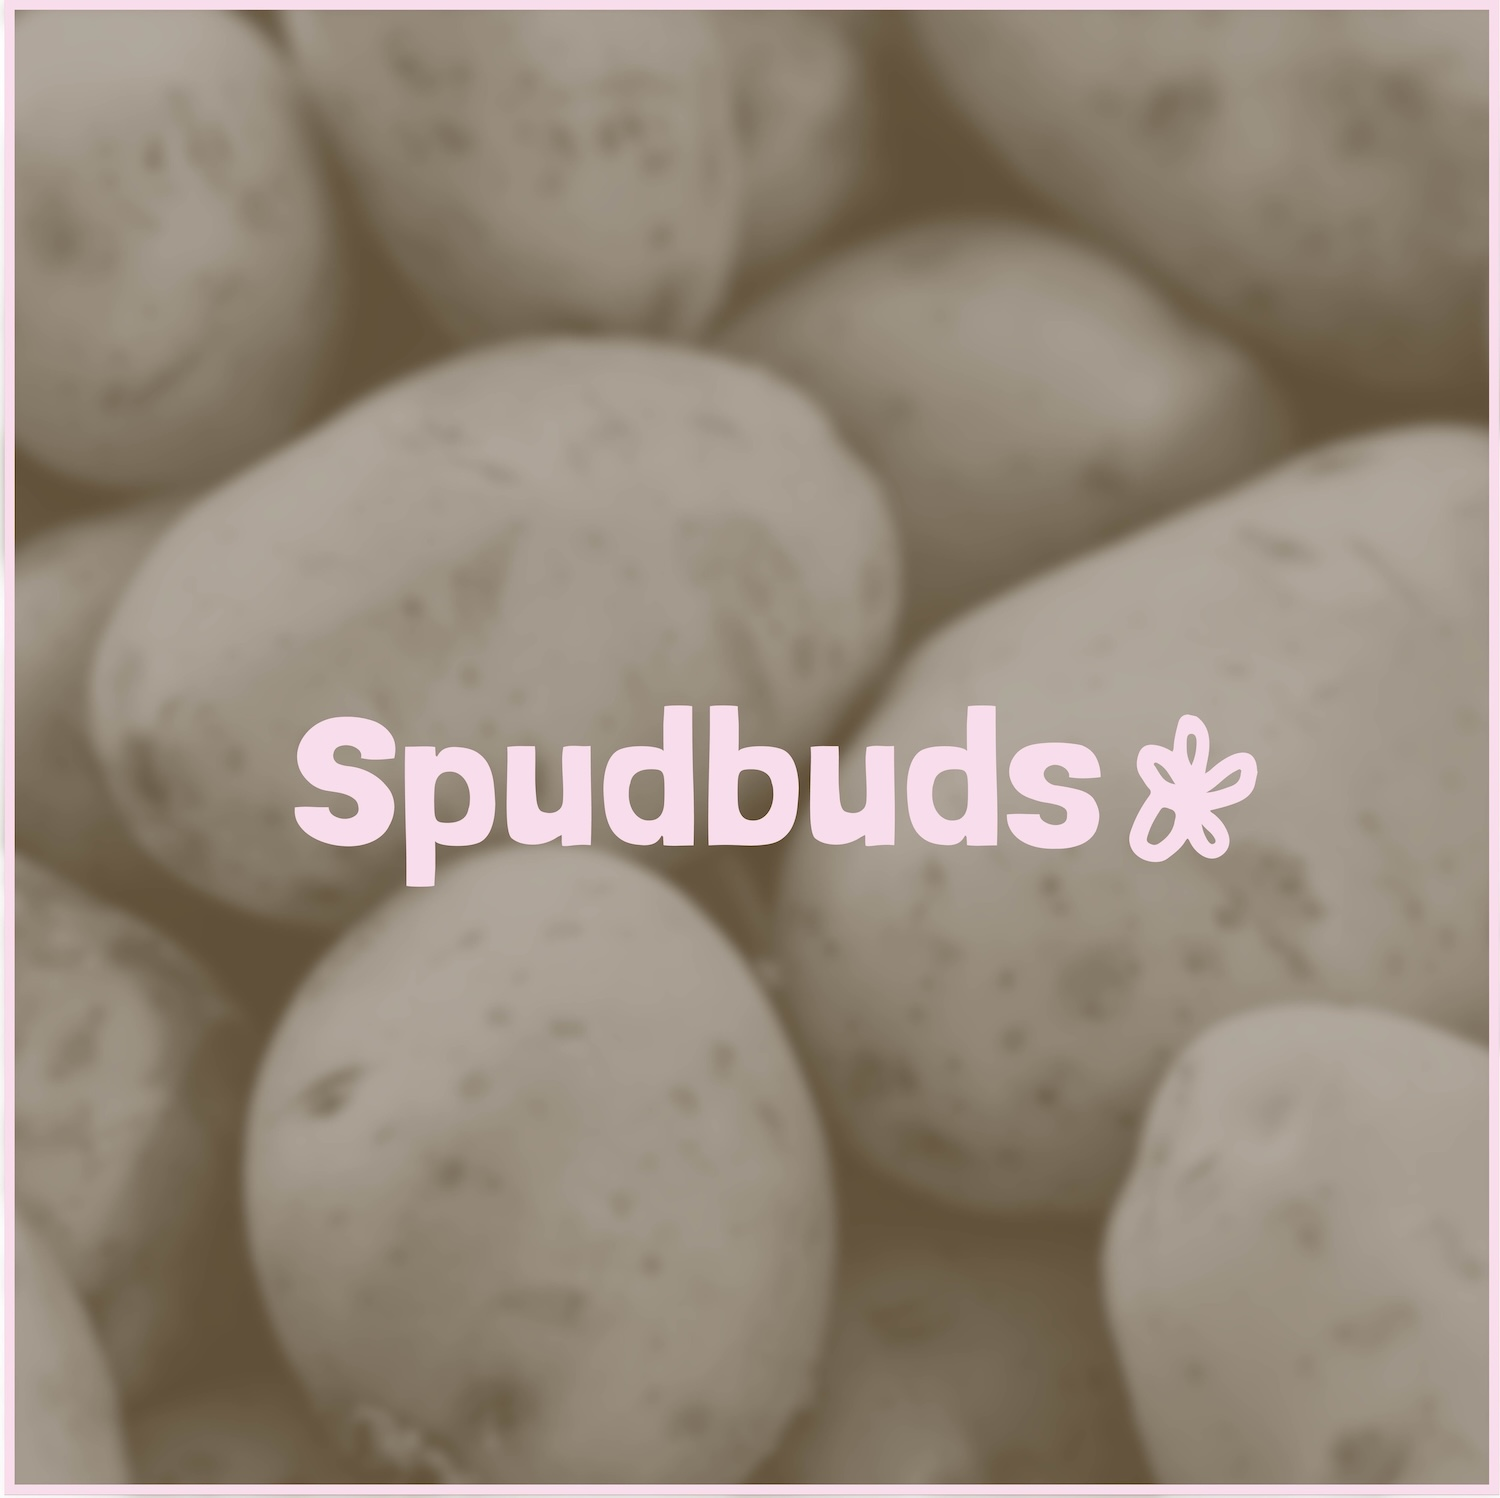
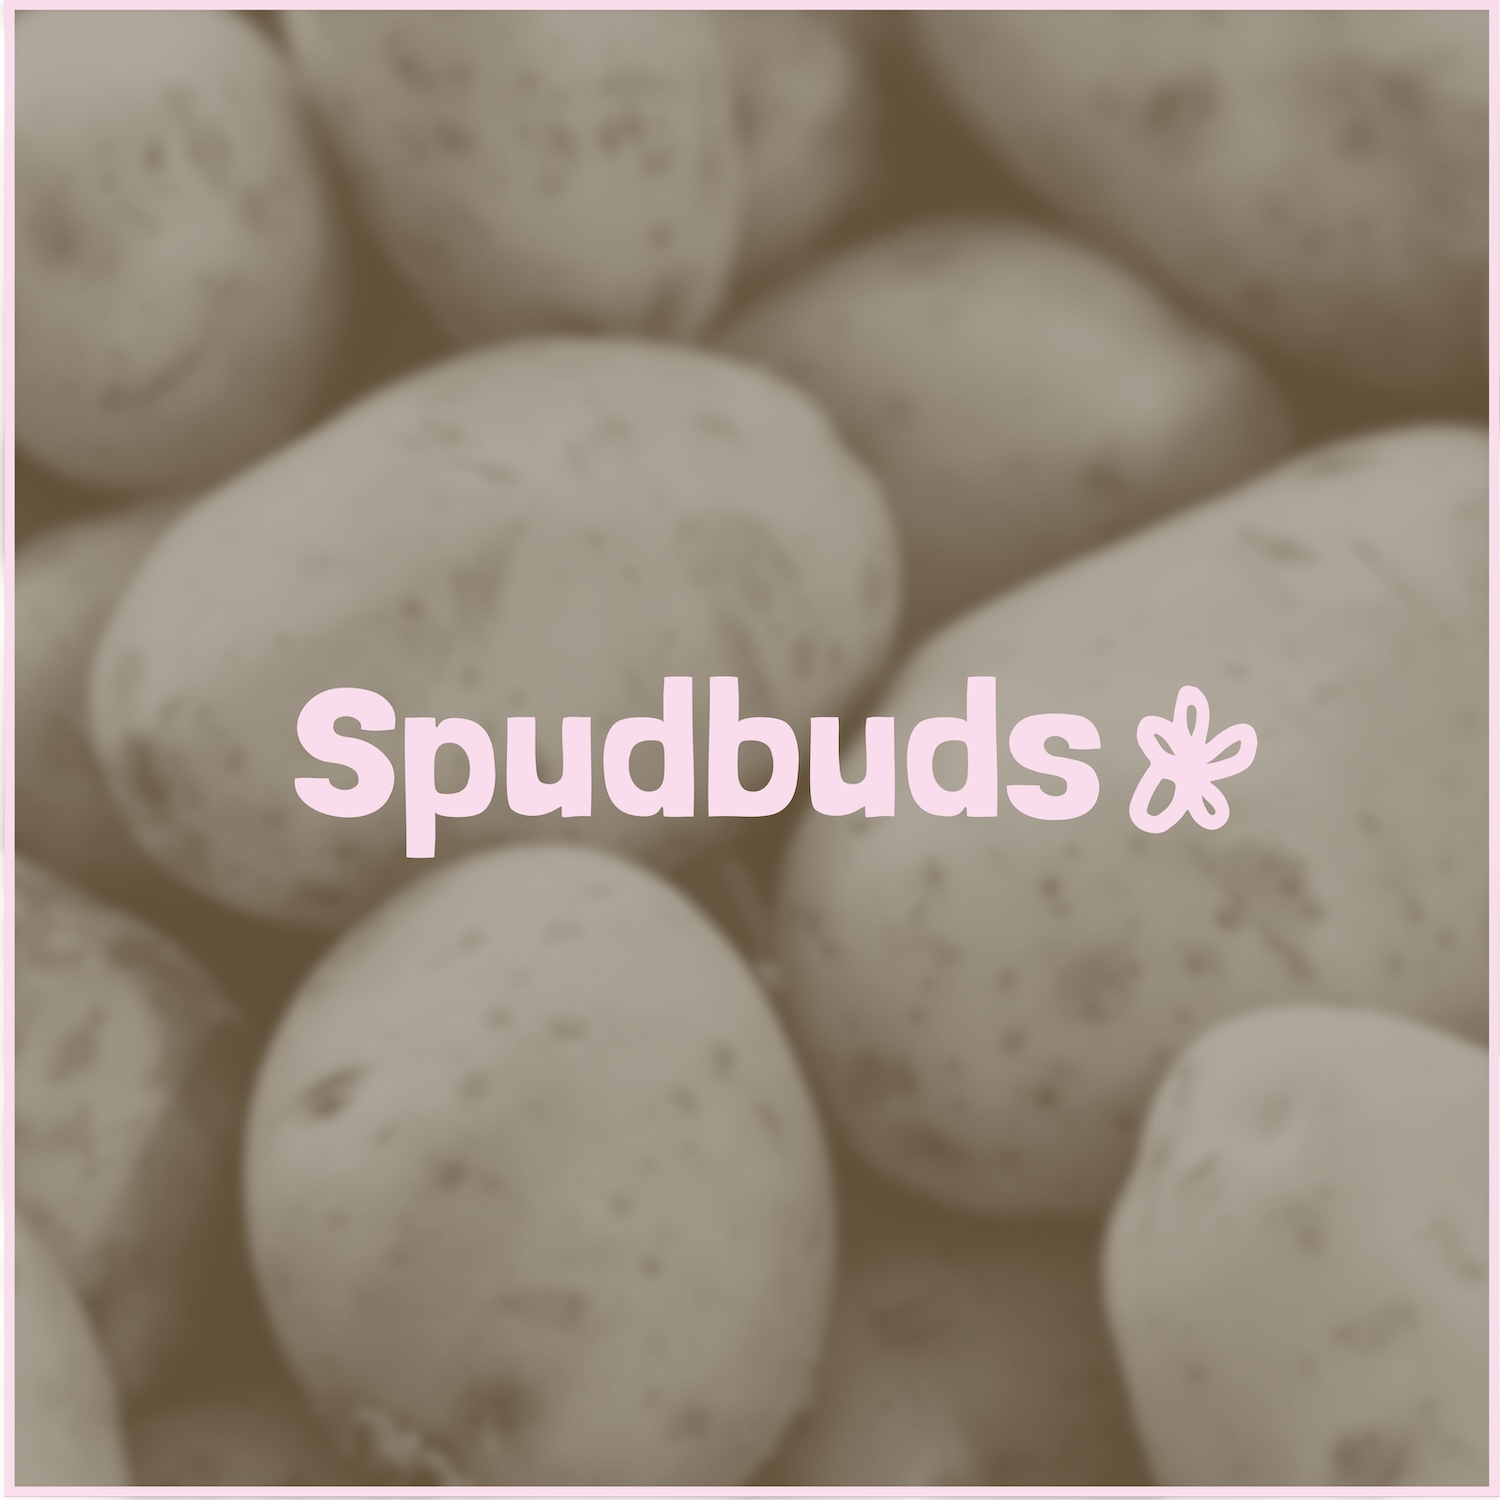
removed outlines, recoloured backgrounds

Changed region(s): [[0.184, 0.4299, 0.8587, 0.6142]]

diff --git a/more-of-my-work.html b/more-of-my-work.html
@@ -335,7 +335,7 @@
           <!-- Three logos -->
           <figure class="project-image">
             <img
-              src="assets/more-of-my-work/Copywriting/more-of-my-work-copywriting-ad-1.jpg"
+              src="assets/more-of-my-work/Copywriting/more-of-my-work-copywriting-ad-6.jpg"
               width="1160"
               height="1500"
               loading="lazy"
@@ -345,7 +345,7 @@
 
           <figure class="project-image">
             <img
-              src="assets/more-of-my-work/Copywriting/more-of-my-work-copywriting-ad-2.jpg"
+              src="assets/more-of-my-work/Copywriting/more-of-my-work-copywriting-ad-5.jpg"
               width="1160"
               height="1500"
               loading="lazy"
@@ -362,38 +362,6 @@
             />
           </figure>
         </div>
-
-        <div class="project-image-container">
-          <!-- Three logos -->
-          <figure class="project-image">
-            <img
-              src="assets/more-of-my-work/Copywriting/more-of-my-work-copywriting-ad-4.jpg"
-              width="1160"
-              height="1500"
-              loading="lazy"
-              alt="more of my work copywriting advertisement four"
-            />
-          </figure>
-
-          <figure class="project-image">
-            <img
-              src="assets/more-of-my-work/Copywriting/more-of-my-work-copywriting-ad-5.jpg"
-              width="1160"
-              height="1500"
-              loading="lazy"
-              alt="more of my work copywriting advertisement five"
-            />
-          </figure>
-          <figure class="project-image">
-            <img
-              src="assets/more-of-my-work/Copywriting/more-of-my-work-copywriting-ad-6.jpg"
-              width="1160"
-              height="1500"
-              loading="lazy"
-              alt="more of my work copywriting advertisement six"
-            />
-          </figure>
-        </div>
         <div class="project-text-below" style="width: 100%; margin-top: 1rem">
           <p class="project-description-one-column">
             I devised a hypothetical French Canadian beer with a campaign aimed
@@ -403,9 +371,9 @@
             can disagree with its flavour.
           </p>
           <p class="project-description-one-column">
-            I wanted them to be lighthearted an immedietly grab the attention of
-            beer patrons throughout all of Canada. It was also a great exercise
-            in simple layout design.
+            I wanted them to be lighthearted and immedietly grab the attention
+            of beer patrons throughout all of Canada. It was also a great
+            exercise in simple layout design.
           </p>
         </div>
         <div class="section-container border top"></div>
@@ -419,25 +387,6 @@
               height="985"
               loading="lazy"
               alt="more of my work layout design covers"
-            />
-          </figure>
-
-          <figure class="project-image">
-            <img
-              src="assets/more-of-my-work/layout-design/more-of-my-work-playback-spread-one.jpg"
-              width="1500"
-              height="985"
-              loading="lazy"
-              alt="more of my work layout design spread one"
-            />
-          </figure>
-          <figure class="project-image">
-            <img
-              src="assets/more-of-my-work/layout-design/more-of-my-work-playback-spread-two.jpg"
-              width="1500"
-              height="985"
-              loading="lazy"
-              alt="more of my work layout design spread two"
             />
           </figure>
           <figure class="project-image">
@@ -464,29 +413,11 @@
 
           <figure class="project-image">
             <img
-              src="assets/more-of-my-work/layout-design/more-of-my-work-playback-spread-five.jpg"
-              width="1500"
-              height="985"
-              loading="lazy"
-              alt="more of my work layout design spread five"
-            />
-          </figure>
-          <figure class="project-image">
-            <img
               src="assets/more-of-my-work/layout-design/more-of-my-work-playback-spread-six.jpg"
               width="1500"
               height="985"
               loading="lazy"
               alt="more of my work layout design spread six"
-            />
-          </figure>
-          <figure class="project-image">
-            <img
-              src="assets/more-of-my-work/layout-design/more-of-my-work-playback-spread-seven.jpg"
-              width="1500"
-              height="985"
-              loading="lazy"
-              alt="more of my work layout design spread seven"
             />
           </figure>
         </div>
@@ -516,7 +447,7 @@
       </li>
 
       <li class="footer-highlights">
-        <h2>Awards & Education</h2>
+        <h2>Recognition & Education</h2>
         <ul class="footer-awards-list">
           <li class="footer-item">
             <a

diff --git a/project-1-milianos.html b/project-1-milianos.html
@@ -209,7 +209,7 @@
             <img
               src="assets/milianos-restaurant-rgd-award-winner-honorable mention/milianos-menu-mockups/milianos-menu-food-folded.jpg"
               width="1500"
-              height="1135"
+              height="1500"
               loading="lazy"
               alt="milianos award winning project folded food menu front"
             />
@@ -220,7 +220,7 @@
             <img
               src="assets/milianos-restaurant-rgd-award-winner-honorable mention/milianos-menu-mockups/milianos-menu-food-folded-back.jpg"
               width="1500"
-              height="1135"
+              height="1500"
               loading="lazy"
               alt="milianos award winning project folded food menu back"
             />
@@ -346,7 +346,7 @@
       </li>
 
       <li class="footer-highlights">
-        <h2>Awards & Education</h2>
+        <h2>Recognition & Education</h2>
         <ul class="footer-awards-list">
           <li class="footer-item">
             <a

diff --git a/about.html b/about.html
@@ -124,10 +124,16 @@
       </li>
       <li class="about-extra about-extra-experience">
         <div class="about-extra-inner">
-          <h2 class="project-description-title">Experience</h2>
+          <h2 class="project-description-title">Experience & Recognition</h2>
           <p class="project-description-about">Practicum</p>
           <p class="project-description-about">
             Freelance Commission Illustrations - Ongoing
+          </p>
+
+          <hr class="divider" />
+
+          <p class="project-description-about">
+            Honourable Mention – RGD Student Awards Packaging Series 2025
           </p>
         </div>
       </li>
@@ -143,7 +149,7 @@
       </li>
 
       <li class="footer-highlights">
-        <h2>Awards & Education</h2>
+        <h2>Recognition & Education</h2>
         <ul class="footer-awards-list">
           <li class="footer-item">
             <a

diff --git a/styles/style.css b/styles/style.css
@@ -2551,7 +2551,7 @@ ul {
 
 .project-image img,
 .project-video-container iframe {
-  border: 2px solid #f26f6c;
+  border: 0px solid #5d513b;
   display: block; /* ensures the border fits cleanly around the media */
 }
 
@@ -3140,7 +3140,7 @@ body.more-of-my-work .project-wrapper-fullwidth .project-details {
 }
 
 .project-video-container iframe {
-  border: 2px solid #f26f6c;
+  border: 0px solid #5d513b;
   display: block;
   border-radius: 0 !important; /* ensures edges stay square */
 }
@@ -3309,6 +3309,14 @@ html {
     width: 100% !important;
     max-width: 100% !important;
   }
+}
+
+.divider {
+  border: none; /* remove default hr border */
+  height: 2px; /* line thickness */
+  background-color: #605139; /* or whatever color you want */
+  margin: 1rem 0; /* 1 rem on top and bottom */
+  width: 100%; /* span the full width of your container */
 }
 
 /*

diff --git a/index.html b/index.html
@@ -309,7 +309,7 @@
       </li>
 
       <li class="footer-highlights">
-        <h2>Awards & Education</h2>
+        <h2>Recognition & Education</h2>
         <ul class="footer-awards-list">
           <li class="footer-item">
             <a

diff --git a/project-2-progrock.html b/project-2-progrock.html
@@ -222,7 +222,7 @@
       </li>
 
       <li class="footer-highlights">
-        <h2>Awards & Education</h2>
+        <h2>Recognition & Education</h2>
         <ul class="footer-awards-list">
           <li class="footer-item">
             <a

diff --git a/project-3-zokusha.html b/project-3-zokusha.html
@@ -459,7 +459,7 @@
       </li>
 
       <li class="footer-highlights">
-        <h2>Awards & Education</h2>
+        <h2>Recognition & Education</h2>
         <ul class="footer-awards-list">
           <li class="footer-item">
             <a

diff --git a/project-4-franks.html b/project-4-franks.html
@@ -269,7 +269,7 @@
       </li>
 
       <li class="footer-highlights">
-        <h2>Awards & Education</h2>
+        <h2>Recognition & Education</h2>
         <ul class="footer-awards-list">
           <li class="footer-item">
             <a

diff --git a/project-5-brewery.html b/project-5-brewery.html
@@ -377,7 +377,7 @@
       </li>
 
       <li class="footer-highlights">
-        <h2>Awards & Education</h2>
+        <h2>Recognition & Education</h2>
         <ul class="footer-awards-list">
           <li class="footer-item">
             <a

diff --git a/project-6-strathcona.html b/project-6-strathcona.html
@@ -308,7 +308,7 @@
       </li>
 
       <li class="footer-highlights">
-        <h2>Awards & Education</h2>
+        <h2>Recognition & Education</h2>
         <ul class="footer-awards-list">
           <li class="footer-item">
             <a

diff --git a/project-7-spudbuds.html b/project-7-spudbuds.html
@@ -317,7 +317,7 @@
       </li>
 
       <li class="footer-highlights">
-        <h2>Awards & Education</h2>
+        <h2>Recognition & Education</h2>
         <ul class="footer-awards-list">
           <li class="footer-item">
             <a
